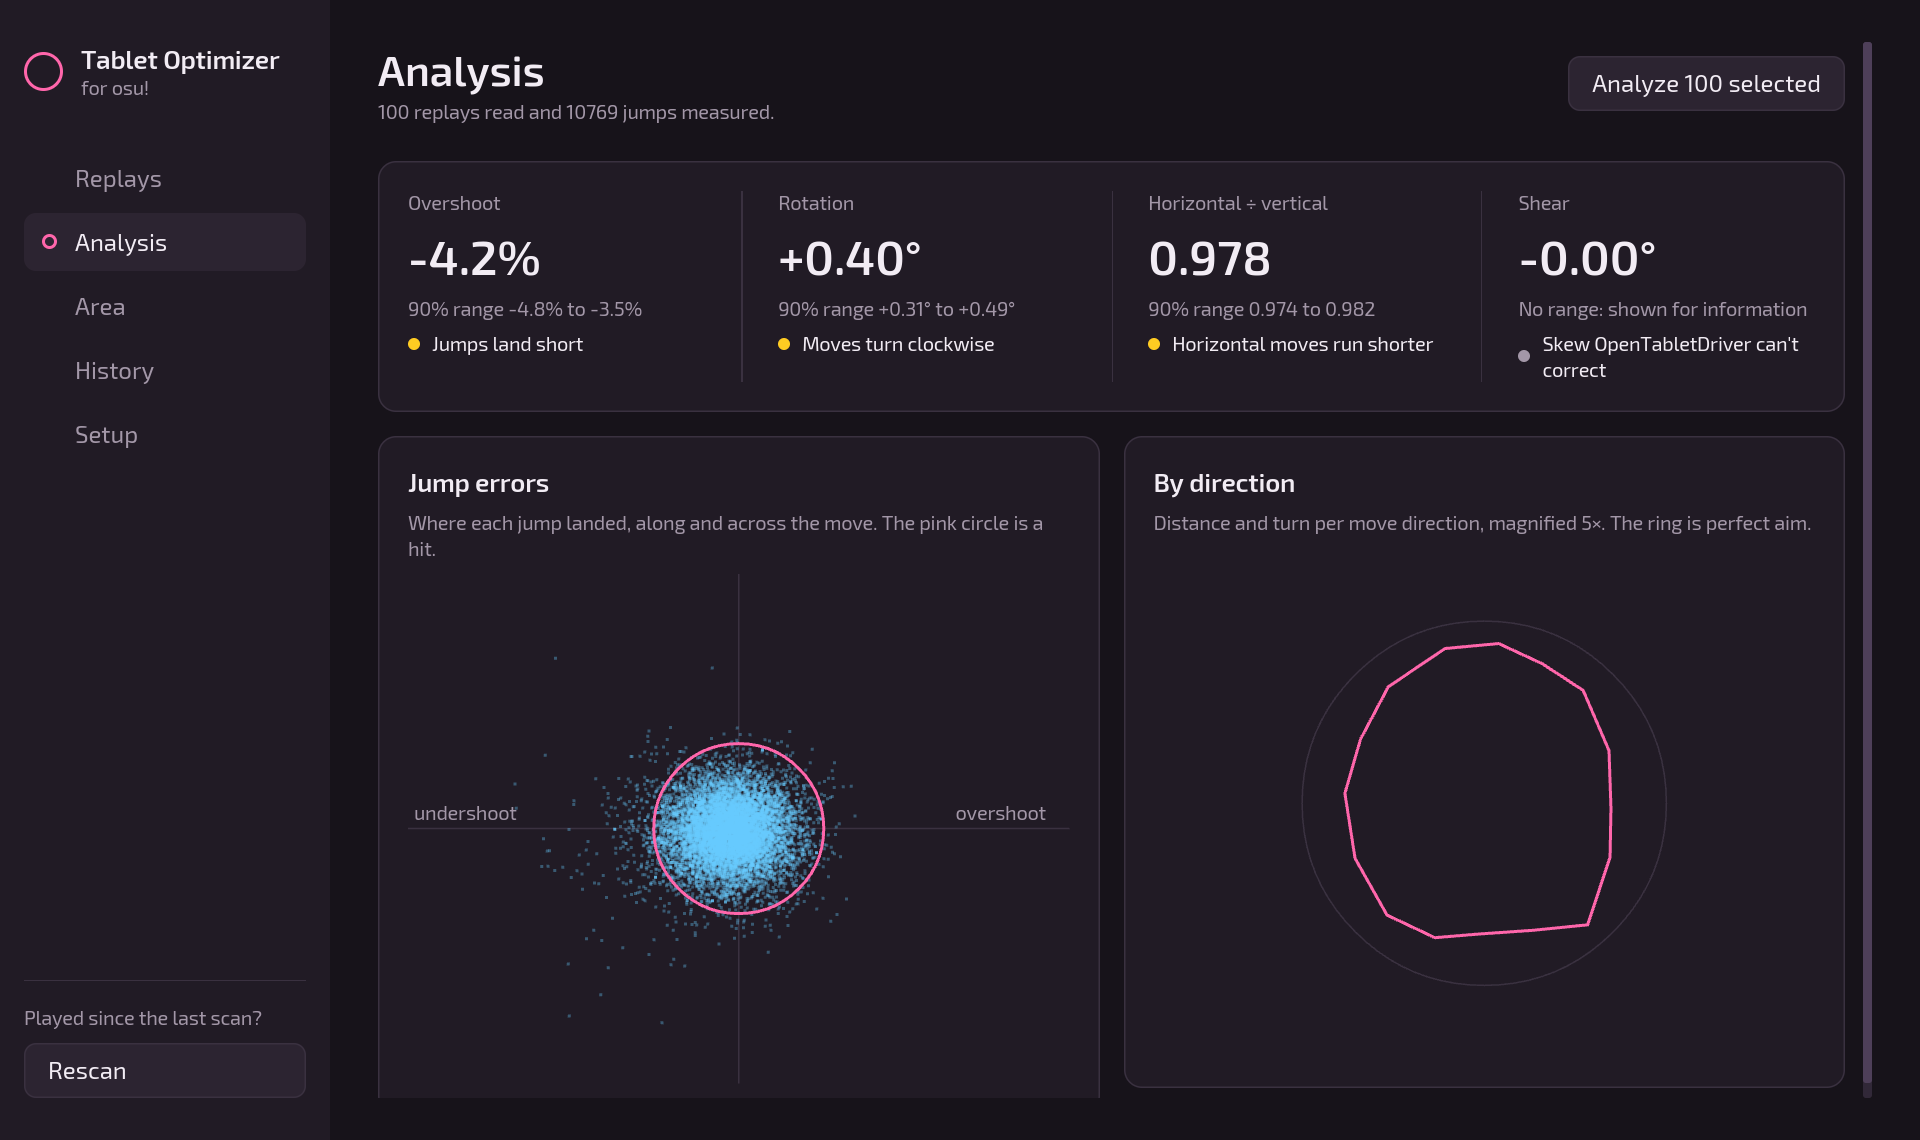
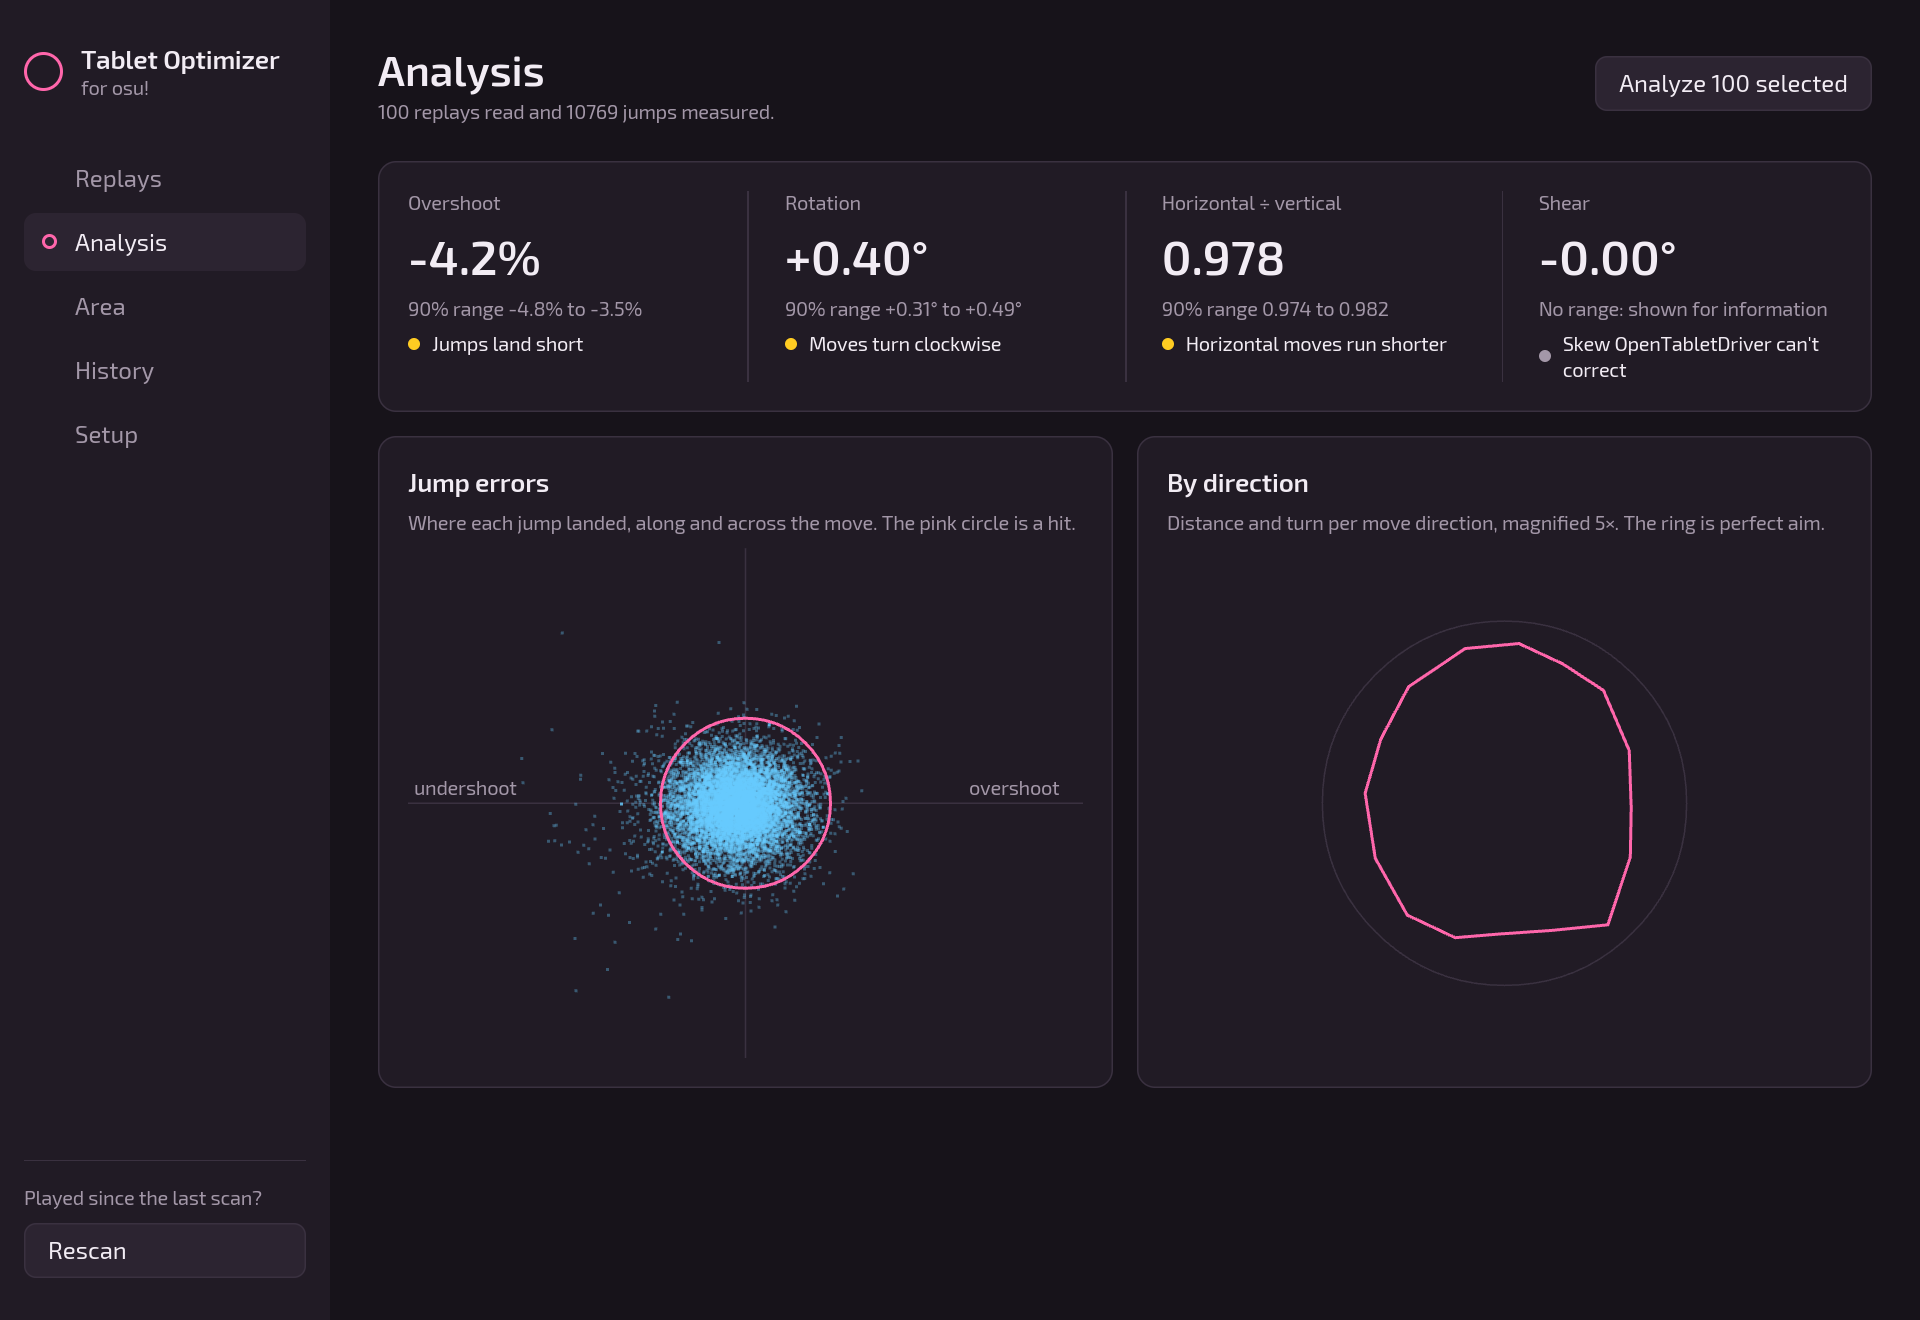
fix: default window fits 1080p at 150%; README claims match the code
- Opens at 1240 x 640 so the window fits the screen its minimum is sized for.
- README: jump filters and defaults, data minimum in total, why replays are
  resampled, mod handling, Artist Mode, default install detection, tablet
  clamping only with a known size, macOS build is Apple silicon, no accuracy
  claim; taller hero screenshot.

diff --git a/src/main.rs b/src/main.rs
@@ -15,9 +15,9 @@ fn main() -> iced::Result {
         .font(include_bytes!("../assets/fonts/Exo2-SemiBold.ttf").as_slice())
         .default_font(ui::style::REGULAR)
         .window(window::Settings {
-            size: Size::new(1280.0, 760.0),
-            // Fits a 1080p screen at 150% scaling (1280 x 720 points, less taskbar and title bar)
-            // while the Replays table keeps room for map titles.
+            // Both fit a 1080p screen at 150% scaling (1280 x 720 points, less taskbar and title
+            // bar); the minimum still leaves the Replays table room for map titles.
+            size: Size::new(1240.0, 640.0),
             min_size: Some(Size::new(1180.0, 640.0)),
             ..window::Settings::default()
         })

diff --git a/README.md b/README.md
@@ -14,16 +14,16 @@
   <a href="https://github.com/Mindus1/osu-tablet-optimizer/releases/latest"><img src="https://img.shields.io/badge/download-latest%20release-ff66ab?style=flat-square&labelColor=211b25" alt="Download the latest release"></a>
   <img src="https://img.shields.io/badge/osu!-stable%20%2B%20lazer-66ccff?style=flat-square&labelColor=211b25" alt="osu!stable and osu!lazer">
   <img src="https://img.shields.io/badge/OpenTabletDriver-0.6-b3d944?style=flat-square&labelColor=211b25" alt="OpenTabletDriver 0.6">
-  <img src="https://img.shields.io/badge/runs%20on-Windows%20%7C%20Linux%20%7C%20macOS-ffcc22?style=flat-square&labelColor=211b25" alt="Windows, Linux and macOS">
+  <img src="https://img.shields.io/badge/runs%20on-Windows%20%7C%20Linux%20%7C%20macOS%20(Apple%20silicon)-ffcc22?style=flat-square&labelColor=211b25" alt="Windows, Linux and macOS on Apple silicon">
 </p>
 
 <p align="center">
   <img src="docs/images/analysis.png" width="880" alt="The Analysis page: overshoot, rotation and horizontal-to-vertical ratio with 90% ranges, a scatter of jump errors around the hit circle, and an outline of distance and turn per move direction">
 </p>
 
-Most players set their tablet area by feel. When your jumps keep landing a little short, the area is a little too large; when they drift to one side, it's turned. Those biases are a few percent and a few tenths of a degree: too small to feel, big enough to cost accuracy.
+Most players set their tablet area by feel. When your jumps keep landing a little short, the area is a little too large; when they drift to one side, it's turned. Those biases are a few percent and a few tenths of a degree: too small to notice by feel, but steady enough to measure.
 
-osu! Tablet Optimizer measures them from thousands of your own jumps, says how sure it is, and turns them into an area you can apply: a careful step to try today, and the full correction.
+osu! Tablet Optimizer measures them from hundreds or thousands of your own jumps, says how sure it is, and turns them into an area you can apply: a careful step to try today, and the full correction.
 
 ## What it does
 
@@ -31,11 +31,11 @@ osu! Tablet Optimizer measures them from thousands of your own jumps, says how s
   <tr>
     <td width="50%" valign="top">
       <img src="docs/images/replays.png" alt="The Replays page: a table of recent plays with date, player, map, tablet area, mods and accuracy">
-      <p><strong>Finds your replays.</strong> osu!stable and osu!lazer are found on their own. Filter by session, date, tablet area or map, or drop <code>.osr</code> files onto the window.</p>
+      <p><strong>Finds your replays.</strong> Standard osu!stable and osu!lazer installs are found on their own; add any other folder in Setup. Filter by session, date, tablet area or map, or drop <code>.osr</code> files onto the window.</p>
     </td>
     <td width="50%" valign="top">
       <img src="docs/images/area.png" alt="The Area page: the tablet with the current area and the suggested areas, and a table of width, height, rotation and center">
-      <p><strong>Suggests an area.</strong> A capped step (at most 3% and 2°) and the full fit, kept on your tablet, exported as an OpenTabletDriver preset. Your <code>settings.json</code> is never touched.</p>
+      <p><strong>Suggests an area.</strong> A capped step (at most 3% and 2°) and the full fit, kept on your tablet when its size is known, exported as an OpenTabletDriver preset. Your <code>settings.json</code> is never touched.</p>
     </td>
   </tr>
   <tr>
@@ -47,9 +47,9 @@ osu! Tablet Optimizer measures them from thousands of your own jumps, says how s
       <p><strong>Works with your setup.</strong></p>
       <ul>
         <li>Any tablet OpenTabletDriver supports; its size comes from OpenTabletDriver's tablet list.</li>
-        <li>Installed or portable OpenTabletDriver 0.6, absolute mode.</li>
+        <li>Installed or portable OpenTabletDriver 0.6, in absolute mode (or Artist Mode on Linux).</li>
         <li>Keyboard or pen-tap clicking: any press counts.</li>
-        <li>HR, EZ, Mirror and Difficulty Adjust are accounted for; mods that move objects are skipped.</li>
+        <li>Mods that only change looks or speed are fine, and HR, EZ, Mirror and Difficulty Adjust are accounted for. Replays with other mods, such as Relax, Autopilot or ones that move objects, are skipped.</li>
         <li>Everything stays on your computer. Nothing is uploaded.</li>
       </ul>
     </td>
@@ -58,13 +58,13 @@ osu! Tablet Optimizer measures them from thousands of your own jumps, says how s
 
 ## How it works
 
-For every jump of at least three circle radii, the app compares where you meant to go (from your cursor at the previous hit to the next circle) with where your cursor was when you pressed. Across all jumps it fits
+For every jump that starts at a circle and is at least three circle radii long (by default), the app compares where you meant to go, from your cursor at the previous hit to the next object, with where your cursor was when you pressed. Presses more than three radii off are left out as misses. Across all jumps it fits
 
 $$\text{actual} = B \cdot \text{intended} + k \cdot \text{direction}$$
 
 $B$ is your effective gain: how far, how turned and how stretched your moves come out. $k$ soaks up the habit of stopping at a circle's edge, which doesn't grow with jump distance the way a wrong area size does. $B$ then translates into OpenTabletDriver's width, height and rotation.
 
-The 90% ranges come from resampling whole replays 200 times, because aim varies between sessions more than between jumps. A change is only suggested when its range rules out "no change", and it needs at least 5 replays with 50 usable jumps.
+The 90% ranges come from resampling whole replays 200 times, because aim shifts from session to session, so the jumps of one session aren't independent. A change is only suggested when its range rules out "no change", and it needs at least 5 replays and 50 usable jumps in total.
 
 ## Download
 
@@ -102,7 +102,7 @@ The builds are unsigned, so Windows SmartScreen or macOS may ask before the firs
 - **Add replays:** with *Add files…* or by dropping `.osr` files onto the window.
 - **Area column:** the tablet area each replay was played with. When it's wrong, select the replays and pick the right one under *Assign selected to area…*; *By date* undoes that.
 
-**Analysis** measures every jump of at least three circle radii in the selected replays. Each number comes with a 90% range; when that range includes "no change", the page says *no clear effect*.
+**Analysis** measures the jumps in the selected replays (at least three circle radii long by default; you can change this in Setup). Overshoot, rotation and horizontal ÷ vertical come with a 90% range; when that range includes "no change", the page says *no clear effect*.
 - **Overshoot:** how much farther (+) or shorter (−) than intended your jumps travel.
 - **Rotation:** how many degrees your moves come out turned clockwise (+) or counter-clockwise (−).
 - **Horizontal ÷ vertical:** below 1 means horizontal moves fall shorter than vertical ones.
